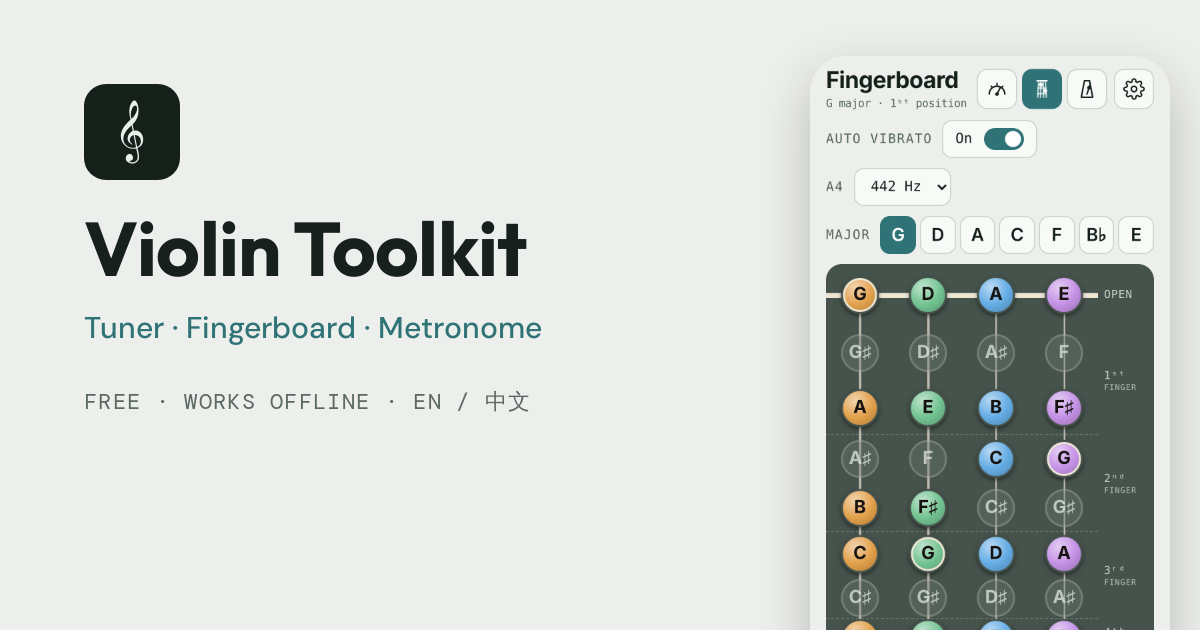
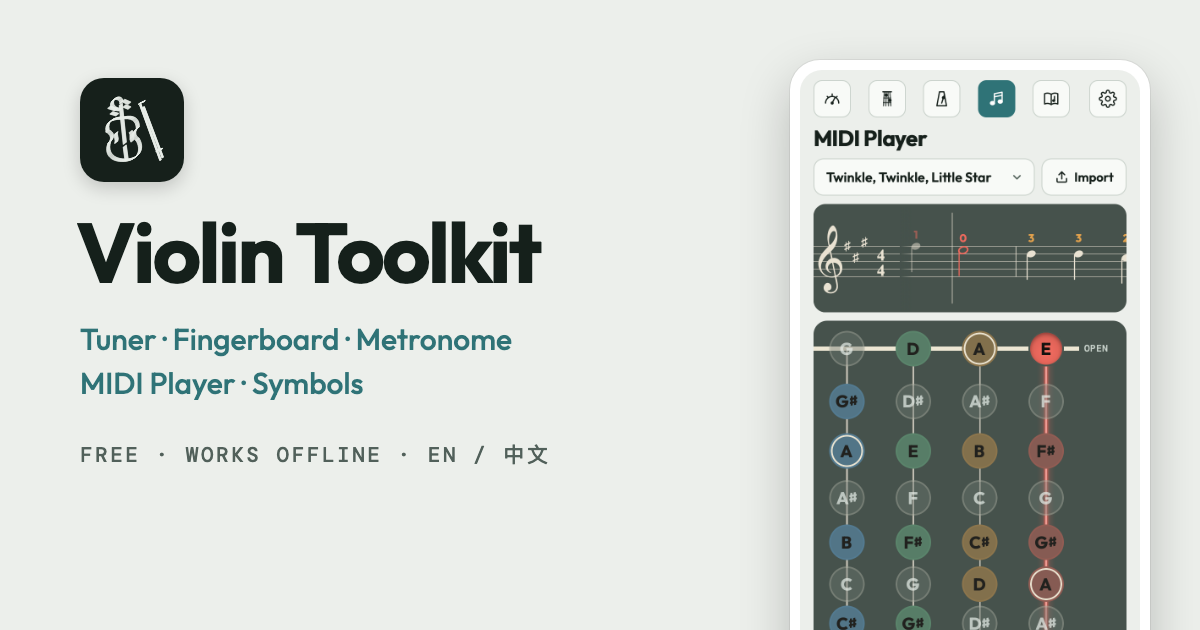
Test build from violin-toolkit 4f5f086

diff --git a/index.html b/index.html
@@ -1259,21 +1259,21 @@ a.howto-btn { text-decoration: none; box-sizing: border-box; }
 <meta name="apple-mobile-web-app-title" content="Violin Toolkit (Test)">
 <meta name="apple-mobile-web-app-status-bar-style" content="default">
 <link rel="apple-touch-icon" href="apple-touch-icon.png">
-<meta name="description" content="Free violin tuner, fingerboard chart and metronome. Works offline, in English and 中文.">
+<meta name="description" content="Free violin tuner, fingerboard chart, metronome, MIDI player with sheet music, and music symbols. Works offline, in English and 中文.">
 <meta property="og:type" content="website">
 <meta property="og:title" content="Violin Toolkit">
-<meta property="og:description" content="Free violin tuner, fingerboard chart and metronome. Works offline, in English and 中文.">
+<meta property="og:description" content="Free violin tuner, fingerboard chart, metronome, MIDI player with sheet music, and music symbols. Works offline, in English and 中文.">
 <meta property="og:url" content="https://trix69.github.io/violin-toolkit/">
 <meta property="og:image" content="https://trix69.github.io/violin-toolkit/og-image.png">
 <meta property="og:image:width" content="1200">
 <meta property="og:image:height" content="630">
 <meta name="twitter:card" content="summary_large_image">
 <meta name="twitter:title" content="Violin Toolkit">
-<meta name="twitter:description" content="Free violin tuner, fingerboard chart and metronome. Works offline, in English and 中文.">
+<meta name="twitter:description" content="Free violin tuner, fingerboard chart, metronome, MIDI player with sheet music, and music symbols. Works offline, in English and 中文.">
 <meta name="twitter:image" content="https://trix69.github.io/violin-toolkit/og-image.png">
 <script type="application/ld+json">
 {"@context": "https://schema.org", "@type": "SoftwareApplication", "name": "Violin Toolkit",
- "description": "Free violin tuner, fingerboard chart and metronome. Works offline, in English and Chinese.",
+ "description": "Free violin tuner, fingerboard chart, metronome, MIDI player with sheet music, and music symbols. Works offline, in English and Chinese.",
  "url": "https://trix69.github.io/violin-toolkit/", "applicationCategory": "MusicApplication", "operatingSystem": "Any",
  "inLanguage": ["en", "zh-CN"], "isAccessibleForFree": true,
  "offers": {"@type": "Offer", "price": "0", "priceCurrency": "USD"},
@@ -1781,7 +1781,7 @@ a.howto-btn { text-decoration: none; box-sizing: border-box; }
       </div>
       </div>
     </div>
-    <button type="button" class="ver" id="verBtn" data-version="1.26" data-build="20261106-133818" data-cache="violin-toolkit-test-"><span>Version 1.26-test</span> · <span id="verMsg">Check for updates</span></button>
+    <button type="button" class="ver" id="verBtn" data-version="1.26" data-build="20261106-134023" data-cache="violin-toolkit-test-"><span>Version 1.26-test</span> · <span id="verMsg">Check for updates</span></button>
     <button type="button" class="sheet-done" id="sheetDone">Done</button>
   </div>
 </div>

diff --git a/sw.js b/sw.js
@@ -2,7 +2,7 @@
    A new release is saved as soon as it is out, but the page shown stays the one the user is on until
    they choose Update (Settings version line, or the "new version" popup): the page writes that build
    stamp to META 'current'. So Later, or Settings > Automatic update check Off, keeps the old version. */
-const VERSION = 'violin-toolkit-test-20261106-133818';
+const VERSION = 'violin-toolkit-test-20261106-134023';
 const PREFIX = 'violin-toolkit-test-', META = PREFIX + 'meta';
 /* only this site's saved copies: production and test share trix69.github.io, so never touch the other's */
 const MINE = k => /^violin-toolkit-test-\d{8}-\d{6}$/.test(k);
